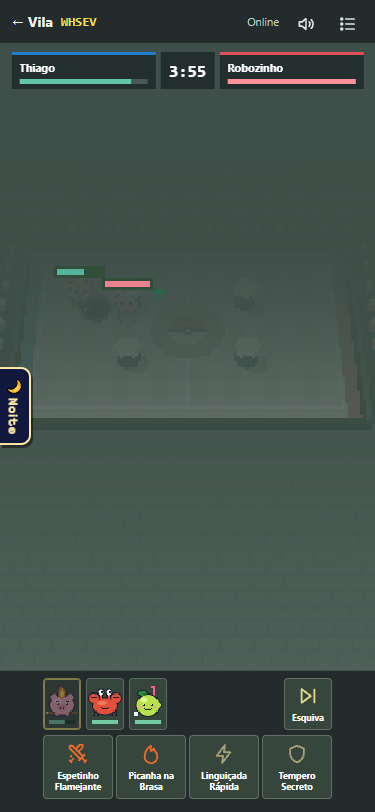
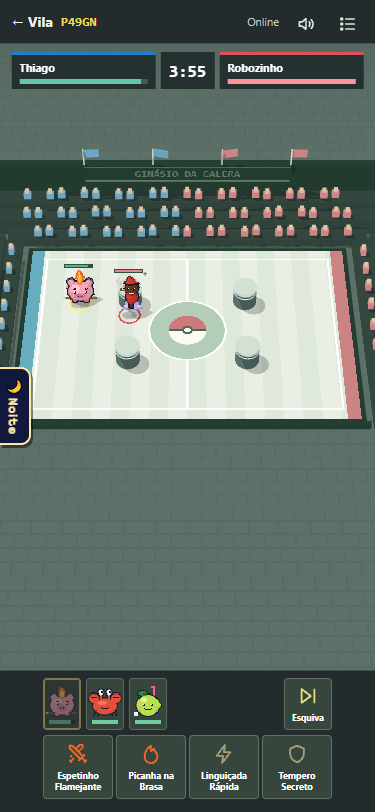
Ginásio 3D: fotos, névoa que acompanha a câmera, CLAUDE.md e MUDANCAS.md

diff --git a/public/ginasio/cena3d.js b/public/ginasio/cena3d.js
@@ -104,7 +104,7 @@ function montarTema(T) {
     m.castShadow = sombra; m.receiveShadow = true; grupo.add(m); return m;
   };
   scene.background = cor3(T.fundo[0]).multiplyScalar(0.55);
-  scene.fog = new THREE.Fog(scene.background, 34, 70);
+  scene.fog = new THREE.Fog(scene.background, (cena3d.distancia || 26) + 8, (cena3d.distancia || 26) + 40);
   // o chão de fora: os ladrilhos do fundo (liso no modo leve)
   const fora = document.createElement("canvas"); fora.width = 64; fora.height = 32;
   const fc = fora.getContext("2d"); fc.fillStyle = T.fundo[0]; fc.fillRect(0, 0, 64, 32);
@@ -201,6 +201,8 @@ function enquadrar3d(w, h, topo, baixo) {
   const m = medir(longe), sobe = (topo + baixo) / 2 - (m.y1 + m.y0) / 2;
   cam.setViewOffset(w, h, 0, -sobe * h / 2, w, h);
   cena3d.base = cam.position.clone();
+  cena3d.distancia = longe; // a névoa começa depois da quadra, por mais longe que a câmera fique (celular em pé)
+  if (cena3d.scene.fog) { cena3d.scene.fog.near = longe + 8; cena3d.scene.fog.far = longe + 40; }
 }
 // o ponto da arena (x, y, altura) na tela do #cv
 function projetar3d(x, y, h = 0) {

diff --git a/CLAUDE.md b/CLAUDE.md
@@ -101,7 +101,7 @@ Servidor na raiz (`<jogo>.js`); página em `public/<jogo>/index.html`.
 | Futebol de Botão | `botao.js` | mesma organização da Sinuca |
 | Corrida (kart 3D) | `corrida.js` | `pistas.js` (pistas e carros), `pista.js`, `carros.js` (os karts), `cena.js`, `fisica.js`, `controles.js`, `rede.js`, `menus.js`, `hud.js`, `fantasma.js`, `estado.js`, `sons.js`, `jogo.js` |
 | Batalha (balões de kart) | `batalha.js` | `index.html`, `jogo.js`, `regras.js` (arenas, física, itens, robôs) |
-| Ginásio (Galeramon/Pokémon em tempo real) | `ginasio.js` | `regras.js` (motor), `gif.js`, `estilo.css`, `sala.js`, `cena3d.js` (a cena 3D), `desenho.js`, `temas.js` (a quadra de cada líder), `animacao.js`, `golpes.js`, `marcas.js`, `controles.js`, `rede.js`, `sons.js`, `hud.js` |
+| Ginásio (Galeramon/Pokémon em tempo real) | `ginasio.js` | `regras.js` (motor), `gif.js`, `estilo.css`, `sala.js`, `cena3d.js` (a cena 3D), `volume.js`, `cenarios.js`, `desenho.js`, `temas.js` (a quadra de cada líder), `animacao.js`, `golpes.js`, `marcas.js`, `controles.js`, `rede.js`, `sons.js`, `hud.js` |
 | Tiro (FPS) | `tiro.js` | `arena.js`, `bonecos.js`, `bots.js`, `cena.js`, `controles.js`, `efeitos.js`, `estado.js`, `hud.js`, `menus.js`, `rede.js`, `sons.js`, `jogo.js` |
 | Pelada (futsal 3D) e Rocket (futebol de carro) | `pelada.js` (+ `peladaBots.js`) | ver logo abaixo |
 | Tênis | `tenis.js` | `index.html`, `jogo.js`, `regras.js` (golpes, robôs; `ARMADO_MAX` = espera do golpe) |
@@ -113,9 +113,12 @@ Servidor na raiz (`<jogo>.js`); página em `public/<jogo>/index.html`.
 - `/ginasio/` abre a sala e a arena 2D de pixel-art. O prédio fica na Vila Esportiva, ao lado do Pingue-Pongue, abaixo do Tênis: `ginasio: true` desenha o telhado arredondado com Pokébola.
 - Na Vila, clicar no amigo ou usar Batalha permite escolher turnos ou Ginásio. O convite `jogo: "ginasio"` reutiliza aceite/recusa; `vila.js` chama `ginasio.criarDesafio` só depois do aceite, reserva os dois lados de uma sala 1x1 sem robôs e envia `irGinasio` com credenciais privadas a cada participante.
 - O navegador guarda essas credenciais em `ginasio:<código>` e abre `?sala=&entrar=1`; os tokens não vão no endereço ou no estado público. Voltar à Vila deixa o jogador na porta do Ginásio. As batalhas por turnos continuam no canal `/vila`.
-- Os scripts dividem as variáveis globais, nesta ordem: `regras`, `gif`, `sala`, `cena3d`, `desenho`, `temas`, `animacao`, `golpes`, `marcas`, `controles`, `rede`, `sons`, `hud`. O Three chega depois, por um `<script type="module">` no fim do `index.html` (`window.THREE`).
+- Os scripts dividem as variáveis globais, nesta ordem: `regras`, `gif`, `sala`, `cena3d`, `volume`, `cenarios`, `desenho`, `temas`, `animacao`, `golpes`, `golpes3d`, `marcas`, `controles`, `rede`, `sons`, `hud`. O Three chega depois, por um `<script type="module">` no fim do `index.html` (`window.THREE`).
 - `sala.js` reaproveita `galeramon_time` e `pokemon_time`, monta o seletor de criaturas e guarda o token da sala.
-- **3D pixelado (`cena3d.js` + `desenho.js`):** uma cena Three.js inclinada, desenhada em baixa resolução (perto de 180 linhas) e ampliada no `#cv` sem suavizar. Cada quadro tem três passadas: o chão visto de cima (`chaoCv`: piso do tema, marcas, avisos de área, mira, sombra e anel dos bichos), que vira a textura do tablado; o atlas (`atlasCv`, casas de 128 px), em que cada bicho e cada projétil vira um cartaz em pé na cena; e o `#cv`, com a cena e, por cima, partículas, estouros, números de dano, vida e clima. Quem desenha usa o `ctx` e a `camera` da passada da vez: `pontoTela(x, y, altura)`, `pontoMundo(clientX, clientY)`, `escalaEm` e `anguloTela`. `cena3d.js`: `montarTema` (tablado, arquibancada com torcida instanciada, letreiro, pilares), `enquadrar3d` (a câmera que faz a quadra caber), `renderizar3d`, `projetar3d` e `chao3d`. Sombra de verdade (sol do fundo à esquerda, a sombra cai para a frente); o cartaz precisa de `shadowSide = DoubleSide`. Modo leve (`cena3d.leve`): celular fraco, quadros lentos ou `?leve=1`; menos pixels, sem sombra de verdade e torcida parada. Sem WebGL, o `#cv` mostra o chão reto (`desenharReto`).
+- **3D (`cena3d.js` + `desenho.js`):** uma cena Three.js inclinada, desenhada na resolução da tela (com `devicePixelRatio` até 2, antisserrilhado e sombra PCF; meia resolução no modo leve) e copiada para o `#cv`. Os sprites entram no atlas pixel por pixel (`PX_CARTAZ = 96 / 3.1`; o Galeramon com 2 pixels do atlas por pixel): não baixar a resolução, que o Thiago achou feio. Linhas finas e tamanhos fixos da tela usam `camera.traco`. Cada quadro tem três passadas: o chão visto de cima (`chaoCv`: piso do tema, marcas, avisos de área, mira, sombra e anel dos bichos), que vira a textura do tablado; o atlas (`atlasCv`, casas de 128 px), em que cada bicho e cada projétil vira um cartaz em pé na cena; e o `#cv`, com a cena e, por cima, partículas, estouros, números de dano, vida e clima. Quem desenha usa o `ctx` e a `camera` da passada da vez: `pontoTela(x, y, altura)`, `pontoMundo(clientX, clientY)`, `escalaEm` e `anguloTela`. `cena3d.js`: `montarTema` (tablado, arquibancada com torcida instanciada, letreiro, pilares), `enquadrar3d` (a câmera que faz a quadra caber), `renderizar3d`, `projetar3d` e `chao3d`. Sombra de verdade (sol do fundo à esquerda, a sombra cai para a frente); o cartaz precisa de `shadowSide = DoubleSide`. Modo leve (`cena3d.leve`): celular fraco, quadros lentos ou `?leve=1`; menos pixels, sem sombra de verdade e torcida parada. Sem WebGL, o `#cv` mostra o chão reto (`desenharReto`).
+- **Bichos com volume (`volume.js`):** depois de pintar o bicho no atlas, `medirEspessura` mede a distância até a borda de cada pixel (textura `ESPESSURA`); a malha de cada casa é uma pilha de `CAMADAS` folhas para cada lado, e o shader corta o pixel que não chega até a camada e acende o relevo com o sol em três tons. O meio transparente (rastro, desmaio) vai num cartaz "fantasma". No modo leve, só o cartaz plano.
+- **Golpes em 3D (`golpes3d.js`, estado em `G3`):** `montarProjetil` (um desenho por família), `estouro3d`, `corte3d`, `area3d` (coluna de fogo, raio do céu, gêiser, espinhos, pedras, cúpula), anéis e `pedrasCaindo`. Nascem da lista `efeitos` (cada um uma vez: `f.g3`) e dos projéteis do pacote. As `PARTICULAS` viram cubinhos (uma malha instanciada). Três luzes fixas (`pedirLuz`; não mude a quantidade, senão os materiais recompilam). `sacudir(forca, soco)` treme e aproxima a câmera (nunca com menos movimento). Em tema de chão claro (`G3.claro`), nada usa mistura aditiva. Com 3D, a tela só desenha os números de dano e a vida por cima.
+- **Cenários (`cenarios.js`):** `montarCenario(T, grupo, toon)`, chamado por `montarTema`, põe a luz do tema (`LUZ_DO_CHAO`), os enfeites (pelo `T.chao`: lava, ondas, flores, placas, pedras, runas, rachaduras, escamas, tatame, gelo ou o padrão) e o clima 3D (`montarClima3d`; as faíscas continuam na tela, em `temas.js`). Devolve a função que anima tudo a cada quadro.
 - O bicho é desenhado em partes (`animacao.js`): `poseBicho` (o jeito do momento), `bichoNoChao`, `bichoNoQuadro` (o corpo no atlas) e `bichoInfo` (a vida na tela). `controles.js` usa teclado, mouse e `Toque.setup`.
 - **Os bichos se mexendo (`animacao.js`):** os Pokémon tocam o GIF animado do Black/White (`PokeDex.spriteAnimado`, lido por `gif.js`, sem dependência), e os Galeramon, os quadros de `GaleramonSprite.quadros` (respirar, chamas, asas, piscar). `desenharBicho` monta o jeito de cada momento (andar, virar, antecipação do golpe, apanhar, esquiva, investida, giro, voo, buraco, mergulho, troca, desmaio) a partir dos eventos (`animarEvento`); as partículas ficam numa lista fixa (`PARTICULAS`). Mirando para o fundo, o bicho vira de costas (`animacaoCostas`: GIF de costas dos Pokémon; Galeramon sem o rosto, `semRosto`).
 - **Os golpes por tipo (`golpes.js`):** `desenharProjetil` (um desenho animado por família de tipo), `desenharCorte`, `estouro` e o golpe de área caindo.

diff --git a/MUDANCAS.md b/MUDANCAS.md
@@ -1,43 +1,88 @@
-# Ginásio em 3D pixelado (parte 1: arena, câmera, luz e sombras)
+# Ginásio em 3D: HD, bichos com volume, golpes em 3D e cenários dos líderes
 
-O Ginásio deixa de ser um desenho 2D visto de cima e vira uma cena Three.js inclinada, desenhada em baixa resolução
-(perto de 180 linhas) e ampliada com pixels nítidos. Continua 8 bits, mas agora tem cara de jogo 3D. É só visual:
+Continua o Ginásio em 3D do #92 e junta num PR só as partes 2 e 3 do plano e o volume dos bichos. É só visual:
 `regras.js`, `ginasio.js` e `rede.js` não mudaram.
 
-## O que mudou na tela
+## Mais definição (HD)
 
-- **Câmera inclinada em perspectiva**, que se ajusta para a quadra inteira caber em qualquer tela: no computador, em
-  pé no celular e deitado com os controles de toque.
-- **Luz do sol mais ambiente, com sombreado chapado** (três tons) e sombras de borda dura. Os pilares e a torcida fazem
-  sombra, e os bichos também: a silhueta do sprite cai no chão, mais uma mancha de contato embaixo.
-- **A quadra do tema (`temas.js`) virou um tablado 3D**, com as linhas, o desenho do chão de cada líder (lava, ondas,
-  flores, tatame...), as marcas dos golpes, os avisos de área e a mira, tudo em perspectiva.
-- **Arquibancada de verdade**: degraus no fundo e nos lados, com a torcida das duas cores pulando, o muro do fundo com o
-  letreiro do ginásio e a mureta na frente.
-- **Os bichos continuam com os sprites de hoje** (GIF do Black/White e os quadros dos Galeramon), como cartazes em pé
-  na quadra, na profundidade certa: quem está na frente cobre quem está atrás, e os pilares escondem quem passa por
-  trás. Pulo, voo, Dig, desmaio, rastro e pisca branco continuam iguais.
-- **Os projéteis são cartazes na cena** e deixam uma sombrinha no chão. Os estouros, cortes, golpes de área, números
-  de dano, partículas e o clima continuam desenhados por cima da cena (os golpes com volume ficam para a parte 2).
-- **Modo leve**: liga sozinho num celular fraco ou se os quadros saem lentos no começo da partida (dá para forçar com
-  `?leve=1` ou desligar com `?leve=0`). Fica com menos pixels, sem sombra de verdade (só a mancha) e com a torcida
-  parada.
-- **Menos movimento** no sistema (`prefers-reduced-motion`): sem tremor de câmera e com a torcida parada.
-- Sem WebGL (ou nos primeiros quadros, enquanto o Three carrega), a quadra aparece reta, vista de cima, com os mesmos
-  desenhos.
+- A cena agora sai na resolução da tela, inclusive em telas de alta densidade, com antisserrilhado e sombra macia. A
+  versão do #92 desenhava em baixa resolução e deixava os sprites borrados.
+- O sprite entra no atlas pixel por pixel: o GIF do Black/White sem reduzir nem suavizar, e cada pixel do Galeramon
+  com 2 pixels do atlas.
+- O chão ganhou mais definição (48 pixels por casa), a sombra um mapa de 2048 e os pilares 16 lados.
+- As linhas finas, a barra de vida, os sinais e o clima de tela crescem junto com a resolução.
+- No modo leve (celular fraco ou `?leve=1`), a cena fica em meia resolução, sem antisserrilhado e sem sombra de
+  verdade.
+- No celular em pé, a névoa do fundo acompanha a distância da câmera e não apaga mais a quadra.
 
-## Como ficou o código
+## Os bichos com volume (`volume.js`)
 
-- `public/ginasio/cena3d.js` (novo): a cena Three.js. Renderizador, câmera (`enquadrar3d`), luzes, o cenário de cada
-  tema (`montarTema`), a torcida, os 32 cartazes e as contas entre a tela e a arena (`projetar3d`, `chao3d`).
-- `public/ginasio/desenho.js`: três passadas por quadro. O chão (`chaoCv`, visto de cima, vira textura do piso), o
-  atlas dos cartazes (`atlasCv`) e o `#cv` (a cena 3D e, por cima, o que é da tela). `pontoTela(x, y, altura)` e
-  `pontoMundo` funcionam em qualquer passada; `escalaEm` e `anguloTela` dão o tamanho e o ângulo na tela de um ponto
-  da arena.
-- `public/ginasio/animacao.js`: o bicho foi dividido em `poseBicho` (o jeito do momento), `bichoNoChao`,
-  `bichoNoQuadro` (o corpo no atlas) e `bichoInfo` (a vida na tela). As partículas agora têm altura de verdade.
-- `public/ginasio/golpes.js`: o corte e as pedras caindo usam o ângulo e a altura da tela 3D.
-- `index.html` carrega o Three pelo importmap (`/vendor/three/three.module.js`).
+- O sprite de sempre, já com o pisca branco, o esticar e o tombo, vira uma pilha de camadas, como voxels.
+- Cada pixel ganha uma espessura que cresce com a distância até a borda do desenho. O bicho fica estufado no meio e
+  fino nas bordas.
+- O relevo recebe a luz do sol em três tons, e a sombra no chão sai da pilha inteira.
+- O que é meio transparente (o rastro e o sumir do desmaio) fica num cartaz "fantasma" junto da pilha.
+- Não precisa de uma malha por quadro do GIF: a espessura é medida no atlas a cada quadro.
+
+## Os golpes com volume (`golpes3d.js`)
+
+- **Projéteis em 3D, um desenho por família:**
+  - fogo e dragão: bola de fogo com casca e cauda;
+  - água: gota com brilho;
+  - elétrico: raio em zigue-zague que pisca;
+  - planta: folhas girando;
+  - inseto: um cone com asinhas;
+  - gelo: cristais cruzados;
+  - aço: estrela de arremesso;
+  - pedra e terra: rocha rolando;
+  - psíquico: anéis;
+  - fantasma: um fantasminha com olhos;
+  - veneno: bolha com bolinhas;
+  - sombrio: meia-lua;
+  - voador: lâminas de vento;
+  - lutador: punho;
+  - fada: estrelinhas;
+  - normal: estrela.
+- Cada projétil deixa o seu rastro, e os que brilham acendem o chão por onde passam.
+- **Estouro do impacto:** clarão, anel no chão e luz.
+- **Corte do corpo a corpo:** um arco em volta de quem bate.
+- **Golpes de área, por família:** coluna de fogo, raio do céu com clarão, gêiser, espinhos de gelo e de planta,
+  pedras voando com poeira ou cúpula de energia. No fim do aviso, as pedras caem de verdade.
+- **Anéis:** um no chão na esquiva; um que sobe com brilhinhos na cura, na troca e na mudança de atributo.
+- **Partículas:** as de `animacao.js` (poeira, terra, gotas, brasas...) viram cubinhos 3D.
+- **Câmera:** treme nos golpes fortes e dá um "soco" de aproximação nos críticos, nos desmaios, nas explosões e na
+  volta do voo ou do buraco.
+- Com "menos movimento" no sistema, não há tremor, aproximação nem clarão.
+- Nos temas de chão claro, nenhum golpe usa a mistura que soma luz, porque lá ela estoura em branco.
+
+## Os cenários dos líderes (`cenarios.js`)
+
+- **Luz:** cada tema tem a cor do sol e do ambiente.
+- **Enfeites em volta da quadra:**
+  - Brasa: poças de lava que pulsam e braseiros;
+  - Maré: água em volta do tablado, com marolas, e boias balançando;
+  - Mata: árvores, arbustos e flores;
+  - Faísca: torres com bobinas e uma esfera que pisca;
+  - Rochedo: rochas e estalagmites;
+  - Místico: cristais flutuando;
+  - Casarão: lápides tortas e velas;
+  - Toca do Dragão: braseiros roxos e chifres no muro;
+  - Dojô: o pórtico vermelho e as lanternas;
+  - Pista Geada: espinhos de gelo e montes de neve;
+  - Ginásio da Galera: torres de refletor e bandeiras das duas cores.
+- **Clima em 3D:** brasas, bolhas, folhas, neve, poeira, estrelas e névoa. As faíscas continuam desenhadas na tela.
+
+## Código
+
+- Novos: `public/ginasio/volume.js`, `golpes3d.js` e `cenarios.js`.
+- Mudaram: `cena3d.js`, `desenho.js`, `animacao.js`, `golpes.js`, `temas.js` e `index.html`.
+- `CLAUDE.md` atualizado.
 - Fotos novas em `planos/imagens/ginasio-3d-*.png`.
+
+## O que não foi conferido
+
+- `npm test` e o e2e (`tests/e2e/ginasio.spec.js` e `vila-ginasio.spec.js`) não foram rodados neste PR, a pedido.
+- A revisão foi feita pelas fotos, no Chrome com WebGL de software (SwiftShader). Ainda falta jogar de verdade num
+  celular fraco para ver o modo leve.
 
 🤖 Generated with [Claude Code](https://claude.com/claude-code)
